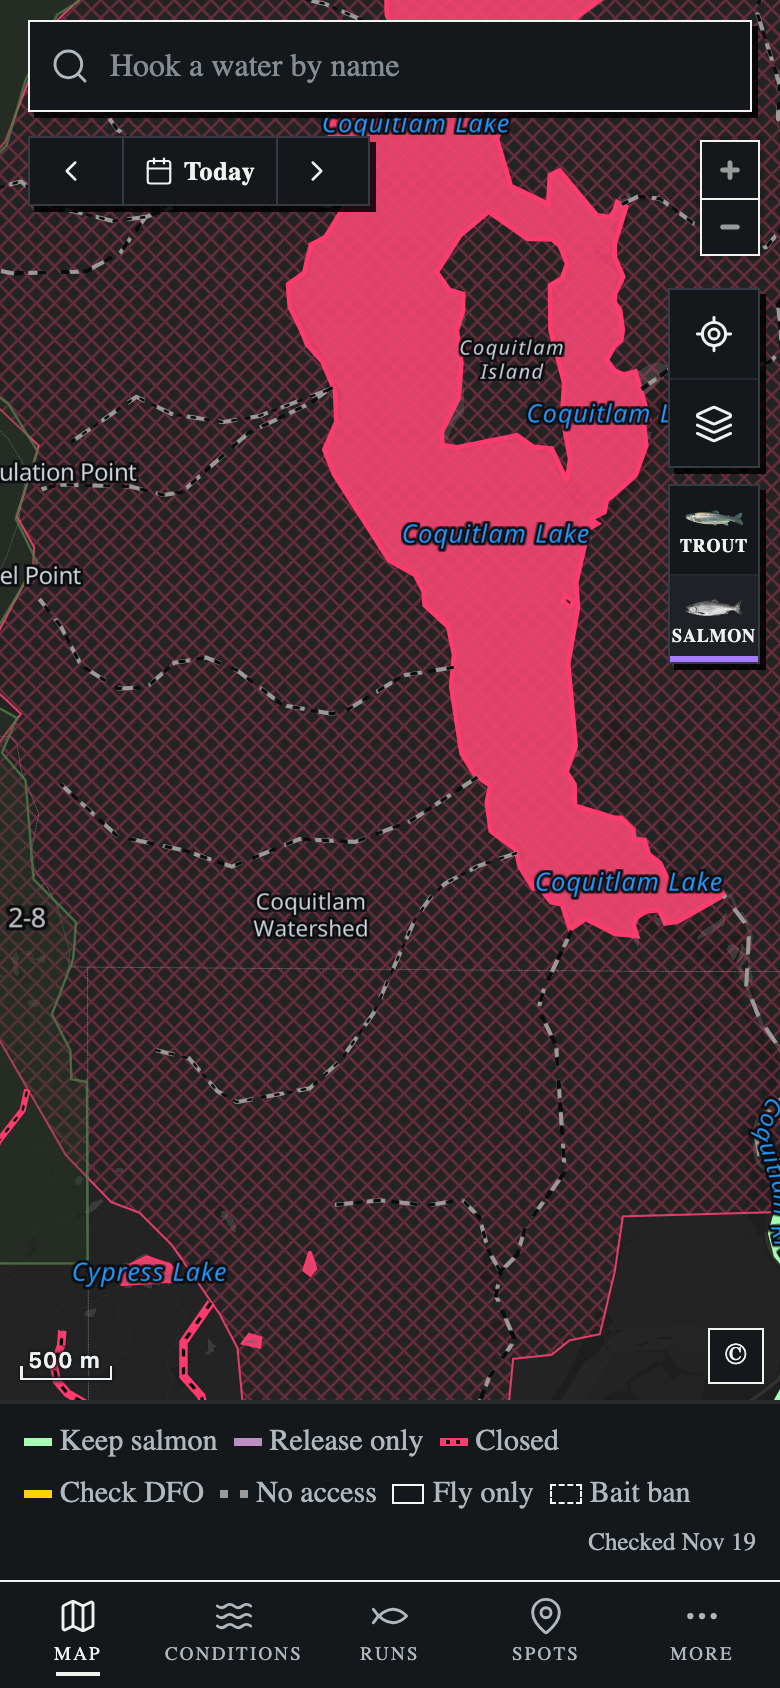
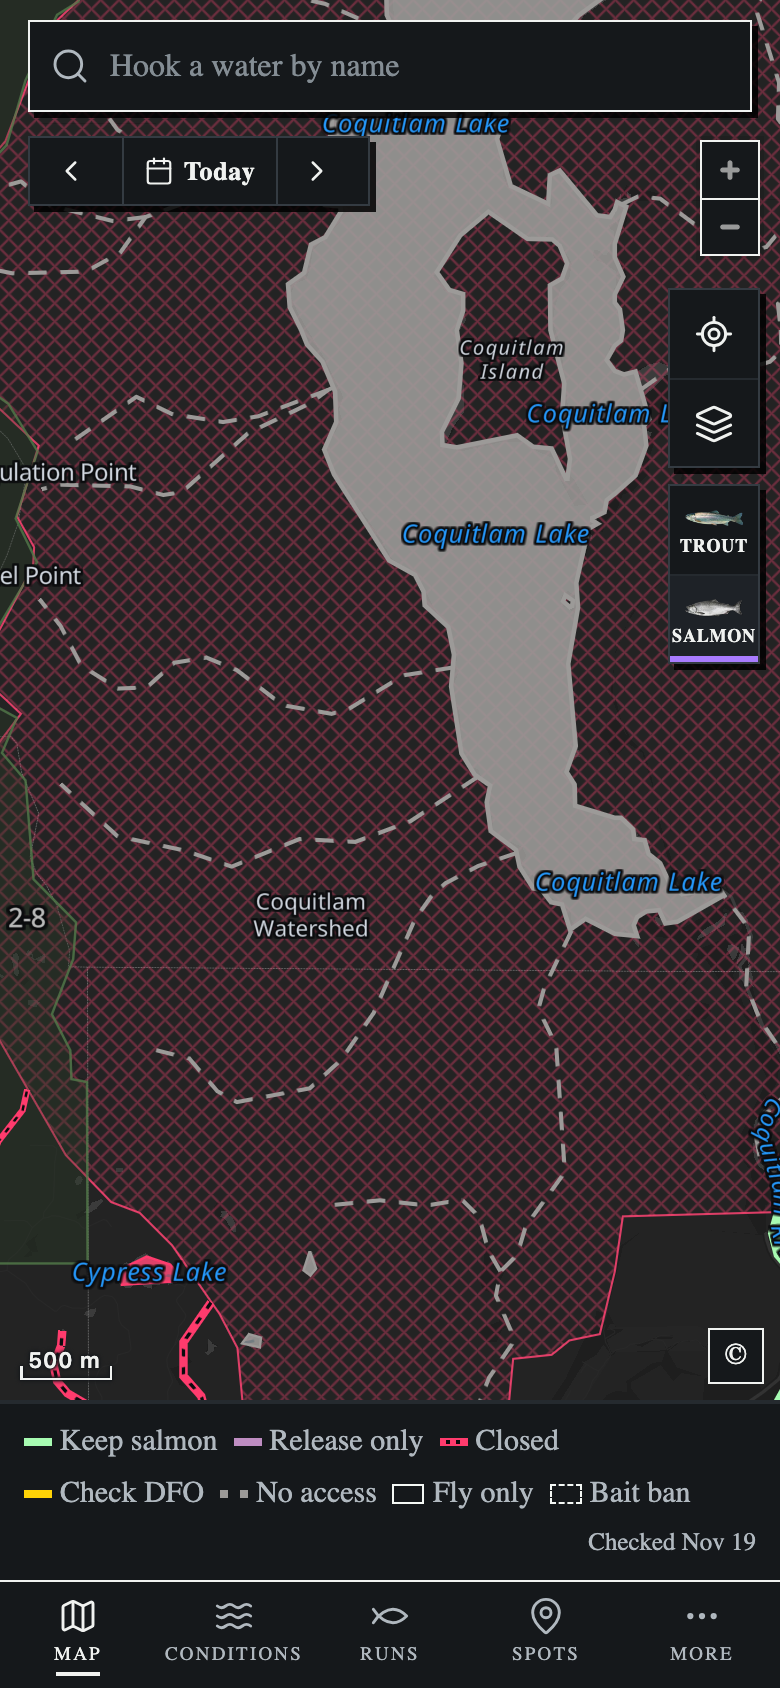
T937 round 2: no-access lakes take Standard's grey in Salmon, and no closed/gear/issue stripe sits on a no-access stream
accessFrom now on every Salmon mode; the colour expression puts the status no_access labels ahead of the salmon day; closed cue, gear edges and issue stripe stand down there. Shots retaken.

diff --git a/app/packages/map/src/paint.ts b/app/packages/map/src/paint.ts
@@ -164,6 +164,18 @@ export function noAccessShown(layerId: string, mode: string, values: ChannelValu
   return null;
 }
 
+/**
+ * (T937) `shown` held off the no-access sections of a mode that takes its access from another (`accessFrom`: Salmon):
+ * a no-access water wears the one dotted grey look, with no closed stripe, gear edge or issue stripe on it, exactly as on
+ * Standard (where those marks already stand down for it). `shown` itself in every other mode, and null stays null.
+ */
+function offNoAccess(layerId: string, mode: string, values: ChannelValues | null, shown: unknown | null): unknown | null {
+  const m = STYLE_META.colorModes[layerId]?.[mode];
+  if (shown === null || !m || m.scale !== "profile" || !m.accessFrom) return shown;
+  const na = noAccessShown(layerId, mode, values);
+  return na === null ? shown : ["all", shown, ["!", na]];
+}
+
 /** The dots' opacity for the stream layer in `mode`: 1 on a no-access section, else 0 (every mode without one). */
 export function noaccessOpacity(mode: string, values: ChannelValues | null = NO_VALUES): unknown {
   const shown = noAccessShown("stream", mode, values);
@@ -258,9 +270,9 @@ export function gearShown(layerId: "stream" | "lake", mode: string, mark: GearMa
     : [...(v.status?.closed ?? []), ...(v.status?.no_access ?? []), ...(v.status?.none ?? [])];
   const marked = ["in", ["coalesce", ["feature-state", "gm"], ""], ["literal", [...labels]]];
   // (T796 A6) and a section DFO's finfish closure closes on Standard (`offFinfish`) — the Salmon day closes it already
-  return offFinfish(m, v, off.length
+  return offNoAccess(layerId, mode, values, offFinfish(m, v, off.length
     ? ["all", marked, ["!", ["in", ["coalesce", ["feature-state", m.property], ""], ["literal", off]]]]
-    : marked);
+    : marked));
 }
 
 /** One mark's paint on a stream (an edge round the line, `streamWidth` its own) or a lake (a ring). */
@@ -342,6 +354,9 @@ export const CLOSED_CUE_LAYER = "stream-closed";
 
 /** Where `mode` paints a stream section closed, as a boolean expression; null where the mode never does. */
 export function closedShown(layerId: string, mode: string, values: ChannelValues | null = NO_VALUES): unknown | null {
+  return offNoAccess(layerId, mode, values, closedBase(layerId, mode, values));
+}
+function closedBase(layerId: string, mode: string, values: ChannelValues | null): unknown | null {
   const m = STYLE_META.colorModes[layerId]?.[mode];
   if (!m || !("categories" in m) || !m.categories["closed"]) return null;
   if (m.scale === "profile") {
@@ -395,13 +410,13 @@ export const ISSUE_SHARE = 0.6;
 export const ISSUE_MODE = "salmon";
 
 /** Where the stripe is shown on a stream in `mode`, as a boolean expression; null: nowhere (any other view). */
-export function issueShown(mode: string): unknown | null {
-  return mode === ISSUE_MODE ? ["==", ["coalesce", ["feature-state", "gi"], ""], "1"] : null;
+export function issueShown(mode: string, values: ChannelValues | null = NO_VALUES): unknown | null {
+  return offNoAccess("stream", mode, values, mode === ISSUE_MODE ? ["==", ["coalesce", ["feature-state", "gi"], ""], "1"] : null);
 }
 
-export function issuePaint(part: keyof typeof ISSUE_LAYERS, mode: string, tokens: Tokens, streamWidth?: unknown): Record<string, unknown> {
+export function issuePaint(part: keyof typeof ISSUE_LAYERS, mode: string, tokens: Tokens, streamWidth?: unknown, values: ChannelValues | null = NO_VALUES): Record<string, unknown> {
   const w = streamWidth ?? ["interpolate", ["linear"], ["zoom"], 6, 1.2, 10, 2, 14, 3.2];
-  const shown = issueShown(mode);
+  const shown = issueShown(mode, values);
   return {
     "line-color": tokens[part === "casing" ? "color.issue.casing" : "color.issue.stripe"],
     "line-width": withinZoomCurve(w, (v) => ["*", v, ISSUE_SHARE]),

diff --git a/app/packages/map/src/salmon-no-access.test.ts b/app/packages/map/src/salmon-no-access.test.ts
@@ -4,7 +4,7 @@
  * channel labels a section `no_access` — no second test of access — and the keep casing never rings it.
  */
 import { describe, expect, it } from "vitest";
-import { markShownIn, noAccessShown, noaccessPaint, paintFor, salmonCasingPaint } from "./paint";
+import { closedShown, issueShown, markShownIn, noAccessShown, noaccessPaint, paintFor, salmonCasingPaint } from "./paint";
 import { NO_VALUES, resolveTheme, type ChannelValues } from "./style";
 
 const t = resolveTheme("light");
@@ -32,5 +32,17 @@ describe("no access on the Salmon map", () => {
   it("the keep casing is held off the no-access sections", () => {
     const c = salmonCasingPaint("salmon", { ...t, "width.salmon.casing": 1 }, values);
     expect(JSON.stringify(c["line-opacity"])).toContain("p7");
+  });
+  it("(round 2) lakes take Standard's no-access colour, and no closed or issue stripe sits on a no-access stream", () => {
+    for (const l of ["lake", "lake_flowing", "wetland_flowing"]) {
+      const p = paintFor(l, "salmon", t, values);
+      const fill = JSON.stringify(p["fill-color"] ?? p["line-color"]);
+      expect(fill, l).toContain(JSON.stringify(t["color.status.no_access"]));
+      expect(fill, l).toContain("p7");
+    }
+    const sv = { ...values, salmon: { open: [], release: [], closed: ["s2"], check: [], none: [] } } as ChannelValues;
+    expect(JSON.stringify(closedShown("stream", "salmon", sv))).toContain("p7");
+    expect(JSON.stringify(issueShown("salmon", sv))).toContain("p7");
+    expect(JSON.stringify(paintFor("lake", "salmon", t, NO_VALUES))).not.toContain("p7");
   });
 });

diff --git a/app/packages/map/src/style.ts b/app/packages/map/src/style.ts
@@ -318,7 +318,15 @@ export function colorExpression(layerId: string, modeName: string, t: Tokens,
       if (labels.length) out.push([...labels], val(ref));
     }
     out.push(val(mode.missing));           // `none` (tidal, outside B.C.) and every unplaced label
-    const byDay = out.length > 3 ? out : val(mode.missing);
+    const plain = out.length > 3 ? out : val(mode.missing);
+    // (T937) NO PUBLIC ACCESS reads the same colour on every colouring: where this mode takes its access from another
+    // (`accessFrom`, Salmon), the status day's no_access sections wear that mode's no_access colour, ahead of the day
+    const from = mode.accessFrom ? STYLE_META.colorModes[layerId]?.[mode.accessFrom] : undefined;
+    const noAccess = from && "categories" in from ? from.categories["no_access"] : undefined;
+    const naLabels = values?.status?.no_access ?? [];
+    const byDay = from && "property" in from && noAccess && naLabels.length
+      ? ["case", ["in", ["coalesce", ["feature-state", from.property], ""], ["literal", [...naLabels]]], val(noAccess), plain]
+      : plain;
     // (T796 A6) DFO's finfish closures, ahead of the day's profile: closed (or, isolated away, `missing`) by the chain
     const fin = finfishOver(mode, values);
     if (!fin) return byDay;

diff --git a/app/packages/map/src/method-paint.test.ts b/app/packages/map/src/method-paint.test.ts
@@ -84,9 +84,11 @@ describe("the gear marks' paint", () => {
   it("(owner 2026-10-28) the Salmon map carries the same marks, hidden where the SALMON day closes the section", () => {
     const SALMON = { open: ["s1"], release: [], closed: ["s0", "s2"], check: [], none: [] };
     const p = gearPaint("stream", "salmon", "fly", t, { ...MAY, salmon: SALMON }, W);
-    expect((p["line-opacity"] as unknown[])[4]).toEqual(["case", ["all",
+    expect((p["line-opacity"] as unknown[])[4]).toEqual(["case", ["all", ["all",
       ["in", ["coalesce", ["feature-state", "gm"], ""], ["literal", ["m1"]]],
-      ["!", ["in", ["coalesce", ["feature-state", "sp"], ""], ["literal", ["s0", "s2"]]]]], 0, 0]);
+      ["!", ["in", ["coalesce", ["feature-state", "sp"], ""], ["literal", ["s0", "s2"]]]]],
+      // (T937) and where the status day marks it no access: the one dotted grey look carries no mark
+      ["!", ["in", ["coalesce", ["feature-state", "p"], ""], ["literal", ["n"]]]]], 0, 0]);
     expect(JSON.stringify(gearPaint("lake", "salmon", "bait", t, { ...MAY, salmon: SALMON })["line-dasharray"]))
       .toContain(JSON.stringify(t["dash.gear.bait"]));
     // no salmon day installed: nothing marked (the status day is not the Salmon map's read)

diff --git a/app/packages/map/src/adapters/contract.ts b/app/packages/map/src/adapters/contract.ts
@@ -270,7 +270,7 @@ export function baseAdapter(platform: "native" | "web"): MapAdapter {
       const iw = markWidth("issue", mode, sw);
       for (const part of ["casing", "stripe"] as const) {
         h.setVisibility(ISSUE_LAYERS[part], markShownIn("issue", mode));
-        for (const [prop, value] of Object.entries(onGround(quiet(issuePaint(part, mode, tokens, iw)), iw, tokens, true, iw)))
+        for (const [prop, value] of Object.entries(onGround(quiet(issuePaint(part, mode, tokens, iw, values)), iw, tokens, true, iw)))
           h.setPaint(ISSUE_LAYERS[part], prop, value);
       }
       // the selection's outline goes with the stream: its width is the stream's, its colour the theme's (full strength)
